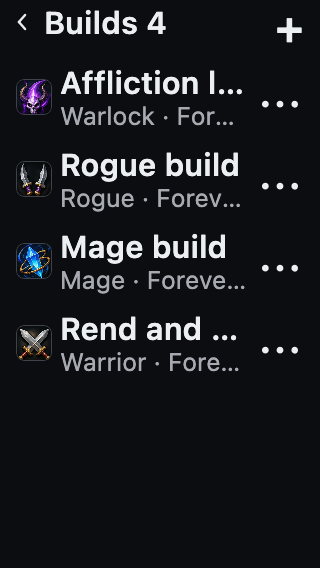
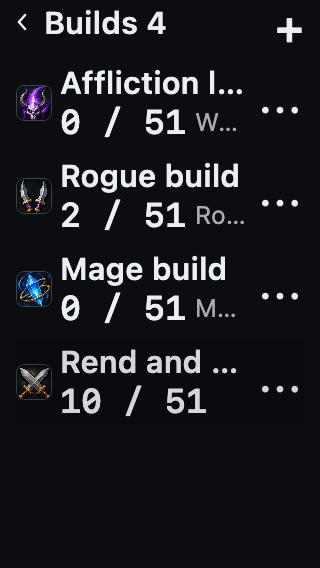
fix(mobile): compact All Builds rows keep the points as a visible element
PR #22 final accessibility fix. Folding the points into the metadata
string left them ellipsized away at 200% font scale - the full string
lived in Compose semantics while the number was visually truncated.
The compact arrangement now renders spent/total as its OWN single-line
element on the metadata row (natural width, never ellipsized or
wrapped) with the review's priority - build name, points, then
class/version/time taking the remainder. The layout test now asserts
VISIBILITY, not semantics: the points element's laid-out width must
cover the label's full intrinsic width measured with the production
style at the exact font scale, with nonzero bounds and no screen
overflow, at 320x568@200%, 360x800@200% and 360x800@100%; the 200%
screenshots are regenerated and inspected.

diff --git a/mobile/composeApp/src/desktopTest/kotlin/io/github/alexeykravtsov95/talentforge/ui/AllBuildsRowLayoutUiTest.kt b/mobile/composeApp/src/desktopTest/kotlin/io/github/alexeykravtsov95/talentforge/ui/AllBuildsRowLayoutUiTest.kt
@@ -3,6 +3,7 @@ package io.github.alexeykravtsov95.talentforge.ui
 import androidx.compose.foundation.layout.Box
 import androidx.compose.foundation.layout.size
 import androidx.compose.runtime.CompositionLocalProvider
+import androidx.compose.runtime.SideEffect
 import androidx.compose.ui.Modifier
 import androidx.compose.ui.platform.LocalDensity
 import androidx.compose.ui.test.assertWidthIsAtLeast
@@ -10,9 +11,8 @@ import androidx.compose.ui.test.junit4.createComposeRule
 import androidx.compose.ui.test.onAllNodesWithText
 import androidx.compose.ui.test.onNodeWithContentDescription
 import androidx.compose.ui.test.onNodeWithText
-import androidx.compose.ui.test.onRoot
 import androidx.compose.ui.test.performClick
-import androidx.compose.ui.test.printToString
+import androidx.compose.ui.text.rememberTextMeasurer
 import androidx.compose.ui.unit.Density
 import androidx.compose.ui.unit.dp
 import io.github.alexeykravtsov95.talentforge.allocation.TalentAllocationEngine
@@ -26,22 +26,27 @@ import io.github.alexeykravtsov95.talentforge.data.builds.BuildLibraryOutcome
 import io.github.alexeykravtsov95.talentforge.data.builds.LocalBuildRepository
 import io.github.alexeykravtsov95.talentforge.data.talentdata.TalentDataDocument
 import io.github.alexeykravtsov95.talentforge.ui.assets.ComposeResourceDatasetAssetSource
+import io.github.alexeykravtsov95.talentforge.ui.builds.BuildsPointsStyle
 import io.github.alexeykravtsov95.talentforge.ui.theme.TalentForgeTheme
 import kotlin.test.BeforeTest
 import kotlin.test.Test
 import kotlin.test.assertIs
+import kotlin.test.assertTrue
 import kotlinx.coroutines.runBlocking
 import org.junit.Rule
 
 /**
- * PR #22 review finding 1, as automated layout assertions: at 320 dp width
- * and 200 % font scale the All Builds row's FIXED elements (36 dp artwork,
- * the mono points column, the 48 dp `⋯` button) must never crowd the build
- * name into unreadability. The row answers with a responsive arrangement:
- * with room (360 dp at 100 %) the points stay a trailing column; without it
- * (200 % font scale, narrow screens) the points fold into the meta line and
- * the freed width goes to the title — while the artwork, the points FACT and
- * the 48 dp actions target are always preserved.
+ * PR #22 accessibility review, as automated LAYOUT assertions (a semantics
+ * lookup of an ellipsized string is NOT enough — the full text exists in the
+ * semantics tree while being visually truncated):
+ *
+ * the All Builds row must keep the spent/total points VISIBLY readable at
+ * 320 dp and 360 dp with 200 % font scale, with the priority build name →
+ * points → class/version/time. Each test proves the points are a SEPARATE
+ * element whose laid-out width covers the full intrinsic width of the label
+ * (measured with the production style at the exact font scale), has nonzero
+ * bounds and stays inside the screen — i.e. it is not clipped, wrapped or
+ * ellipsized. The full trailing-column arrangement at 100 % is pinned too.
  */
 class AllBuildsRowLayoutUiTest {
 
@@ -58,6 +63,9 @@ class AllBuildsRowLayoutUiTest {
     private val longName =
         "Rend and Deflection levelling route for solo battlegrounds"
 
+    /** The intrinsic (unconstrained) width of the points label at the composed font scale. */
+    private var pointsIntrinsicWidthPx: Int = 0
+
     @BeforeTest
     fun setUp() {
         storage = FakeBuildLibraryStorage()
@@ -70,6 +78,11 @@ class AllBuildsRowLayoutUiTest {
         composeRule.setContent {
             TalentForgeTheme {
                 CompositionLocalProvider(LocalDensity provides Density(1f, fontScale)) {
+                    val textMeasurer = rememberTextMeasurer()
+                    SideEffect {
+                        pointsIntrinsicWidthPx =
+                            textMeasurer.measure("13 / 51", BuildsPointsStyle).size.width
+                    }
                     Box(Modifier.size(widthDp.dp, heightDp.dp)) {
                         App(storage = storage, clock = clock, ids = ids)
                     }
@@ -83,6 +96,9 @@ class AllBuildsRowLayoutUiTest {
             composeRule.onAllNodesWithText(text).fetchSemanticsNodes().isNotEmpty()
         }
     }
+
+    private fun <T> loaded(outcome: BuildLibraryOutcome<T>): T =
+        assertIs<BuildLibraryOutcome.Loaded<T>>(outcome).value
 
     /**
      * Composes the app FIRST on the fresh empty library, seeds the scenario,
@@ -99,9 +115,6 @@ class AllBuildsRowLayoutUiTest {
         composeApp(widthDp, heightDp, fontScale)
         awaitText("CONTINUE")
     }
-
-    private fun <T> loaded(outcome: BuildLibraryOutcome<T>): T =
-        assertIs<BuildLibraryOutcome.Loaded<T>>(outcome).value
 
     /**
      * A real engine-spent Warrior build with a two-digit points label
@@ -151,16 +164,38 @@ class AllBuildsRowLayoutUiTest {
         awaitText("Builds 1")
     }
 
+    /**
+     * The accessibility core: the points are their own element, with nonzero
+     * bounds, laid out at (at least) the label's full intrinsic width — an
+     * ellipsized or clipped element would report a narrower box — and fully
+     * inside the screen.
+     */
+    private fun assertPointsElementFullyVisible(screenWidthPx: Int) {
+        val node = composeRule.onNodeWithText("13 / 51").fetchSemanticsNode()
+        val width = node.size.width.toFloat()
+        assertTrue(width > 0f && node.size.height > 0, "the points element must have nonzero bounds")
+        assertTrue(
+            width + 0.5f >= pointsIntrinsicWidthPx,
+            "the points label must be fully laid out, not clipped/ellipsized " +
+                "(laid out $width px of intrinsic $pointsIntrinsicWidthPx px)",
+        )
+        val rightEdge = node.positionInRoot.x + width
+        assertTrue(
+            rightEdge <= screenWidthPx.toFloat(),
+            "the points element must stay inside the screen (right edge $rightEdge of $screenWidthPx)",
+        )
+    }
+
     @Test
-    fun withRoomThePointsStayATrailingColumn() {
+    fun atFullFontSizeTheTrailingPointsColumnIsFullyVisible() {
         composeSeededApp(widthDp = 360, heightDp = 800, fontScale = 1f) {
             persistLongNamedSpentBuild()
         }
         openAllBuilds()
 
-        // the full arrangement: points are their own trailing mono column…
-        composeRule.onNodeWithText("13 / 51").assertExists()
-        // …and the meta line stays class · version · recency (points NOT folded)
+        // the full arrangement: separate trailing mono column, fully laid out
+        assertPointsElementFullyVisible(screenWidthPx = 360)
+        // the meta line keeps its own full form (class · version · recency)
         composeRule.onNodeWithText("Warrior · Forever · Just now").assertExists()
         // the ⋯ target keeps its 48 dp width
         composeRule.onNodeWithContentDescription("build actions for $longName")
@@ -168,32 +203,26 @@ class AllBuildsRowLayoutUiTest {
     }
 
     @Test
-    fun atDoubleFontScaleThePointsFoldIntoTheMetaLine() {
+    fun atDoubleFontScaleThePointsStayAVisibleSeparateElement() {
         composeSeededApp(widthDp = 360, heightDp = 800, fontScale = 2f) {
             persistLongNamedSpentBuild()
         }
         openAllBuilds()
 
-        // compact arrangement: no separate squeezed points column…
-        composeRule.onNodeWithText("13 / 51").assertDoesNotExist()
-        // …the points FACT survives inside the meta line…
-        composeRule.onNodeWithText("Warrior · Forever · 13 / 51 · Just now").assertExists()
-        // …the long title is present…
+        assertPointsElementFullyVisible(screenWidthPx = 360)
         composeRule.onNodeWithText(longName).assertExists()
-        // …and the ⋯ target still keeps its 48 dp width
         composeRule.onNodeWithContentDescription("build actions for $longName")
             .assertWidthIsAtLeast(48.dp)
     }
 
     @Test
-    fun atSmallestWidthAndDoubleFontScaleTheRowStaysReadable() {
+    fun atSmallestWidthAndDoubleFontScaleThePointsStayAVisibleSeparateElement() {
         composeSeededApp(widthDp = 320, heightDp = 568, fontScale = 2f) {
             persistLongNamedSpentBuild()
         }
         openAllBuilds()
 
-        composeRule.onNodeWithText("13 / 51").assertDoesNotExist()
-        composeRule.onNodeWithText("Warrior · Forever · 13 / 51 · Just now").assertExists()
+        assertPointsElementFullyVisible(screenWidthPx = 320)
         composeRule.onNodeWithText(longName).assertExists()
         composeRule.onNodeWithContentDescription("build actions for $longName")
             .assertWidthIsAtLeast(48.dp)

diff --git a/mobile/composeApp/src/commonMain/kotlin/io/github/alexeykravtsov95/talentforge/ui/builds/AllBuildsScreen.kt b/mobile/composeApp/src/commonMain/kotlin/io/github/alexeykravtsov95/talentforge/ui/builds/AllBuildsScreen.kt
@@ -378,9 +378,13 @@ fun AllBuildsScreen(
  * on narrow screens the full arrangement would crowd the build name into
  * unreadability. The row measures the WIDEST points label at the current
  * font scale and, when the title column would fall below
- * [MinBuildTitleWidth], folds the points into the meta line — the freed
- * width goes to the title while the artwork, the points FACT and the 48 dp
- * actions target are all preserved.
+ * [MinBuildTitleWidth], switches to the compact arrangement: the points
+ * become their OWN single-line element on the metadata row — measured at
+ * natural width, never ellipsized — and the class/version/time meta line
+ * takes what remains and ellipsizes where space does not permit. Layout
+ * priority is exactly the review's: build name, spent/total points, then
+ * class · version · recency. The artwork, the 48 dp actions target and the
+ * click-to-open row are identical in both arrangements.
  */
 @Composable
 private fun BuildRow(
@@ -394,7 +398,7 @@ private fun BuildRow(
         BuildRowContent(
             card = card,
             clockMillis = clockMillis,
-            foldPointsIntoMeta = compact,
+            compact = compact,
             onClick = onClick,
             onActions = onActions,
         )
@@ -420,7 +424,7 @@ private fun BoxWithConstraintsScope.isCompactRow(hasPoints: Boolean): Boolean {
 private fun BuildRowContent(
     card: BuildCardModel,
     clockMillis: () -> Long,
-    foldPointsIntoMeta: Boolean,
+    compact: Boolean,
     onClick: () -> Unit,
     onActions: () -> Unit,
 ) {
@@ -447,14 +451,38 @@ private fun BuildRowContent(
                 maxLines = 1,
                 overflow = androidx.compose.ui.text.style.TextOverflow.Ellipsis,
             )
-            BasicText(
-                text = rowMetaLine(card, clockMillis, includePoints = foldPointsIntoMeta),
-                style = TalentForgeTypography.meta.copy(color = colors.textSecondary),
-                maxLines = 1,
-                overflow = androidx.compose.ui.text.style.TextOverflow.Ellipsis,
-            )
+            if (compact) {
+                // the review's priority: the points are their OWN element,
+                // measured at natural width and never ellipsized; the meta
+                // line takes what remains and yields first
+                Row(
+                    verticalAlignment = Alignment.CenterVertically,
+                    horizontalArrangement = Arrangement.spacedBy(TalentForgeSpacing.inline),
+                ) {
+                    BasicText(
+                        text = "${card.spentPoints} / ${card.pointBudget}",
+                        style = BuildsPointsStyle.copy(color = colors.textPrimary),
+                        maxLines = 1,
+                        softWrap = false,
+                    )
+                    BasicText(
+                        text = rowMetaLine(card, clockMillis),
+                        style = TalentForgeTypography.meta.copy(color = colors.textSecondary),
+                        maxLines = 1,
+                        overflow = androidx.compose.ui.text.style.TextOverflow.Ellipsis,
+                        modifier = Modifier.weight(1f),
+                    )
+                }
+            } else {
+                BasicText(
+                    text = rowMetaLine(card, clockMillis),
+                    style = TalentForgeTypography.meta.copy(color = colors.textSecondary),
+                    maxLines = 1,
+                    overflow = androidx.compose.ui.text.style.TextOverflow.Ellipsis,
+                )
+            }
         }
-        if (!foldPointsIntoMeta && card.spentPoints != null && card.pointBudget != null) {
+        if (!compact && card.spentPoints != null && card.pointBudget != null) {
             BasicText(
                 text = "${card.spentPoints} / ${card.pointBudget}",
                 style = BuildsPointsStyle.copy(color = colors.textPrimary),
@@ -464,19 +492,13 @@ private fun BuildRowContent(
     }
 }
 
-/** `Warrior · Forever · [13 / 51 ·] Just now` — only resolved fields, in fixed order. */
+/** `Warrior · Forever · Just now` — only resolved fields, in fixed order. */
 private fun rowMetaLine(
     card: BuildCardModel,
     clockMillis: () -> Long,
-    includePoints: Boolean,
 ): String = listOfNotNull(
     card.classDisplayName ?: card.record.build.classToken.value,
     gameDisplayName(card.record.build.game),
-    if (includePoints && card.spentPoints != null && card.pointBudget != null) {
-        "${card.spentPoints} / ${card.pointBudget}"
-    } else {
-        null
-    },
     relativeBuildTime(clockMillis(), card.record.updatedAt),
 ).joinToString(" · ")
 
@@ -511,7 +533,8 @@ private val RowActionsButtonSize = 48.dp
  */
 private val MinBuildTitleWidth = 112.dp
 
-private val BuildsPointsStyle = androidx.compose.ui.text.TextStyle(
+/** UX spec G numeric mono 17 · 600 — `internal` so the layout test measures the same style. */
+internal val BuildsPointsStyle = androidx.compose.ui.text.TextStyle(
     fontFamily = androidx.compose.ui.text.font.FontFamily.Monospace,
     fontSize = 17.sp,
     lineHeight = 22.sp,

diff --git a/docs/mobile-architecture.md b/docs/mobile-architecture.md
@@ -819,9 +819,17 @@ Home's `New build`. The row is RESPONSIVE (PR #22 review): its fixed-width
 elements (artwork tile, mono points column, 48 dp `⋯` button) would crowd a
 long build name into unreadability at large font scales, so the row measures
 the widest points label at the current font scale and, when the title column
-would fall below ~112 dp, folds the points into the meta line — the artwork,
-the points FACT and the 48 dp actions target are always preserved
-(`AllBuildsRowLayoutUiTest` pins both arrangements and the button width).
+would fall below ~112 dp, switches to the compact arrangement with the
+review's exact priority — build name, then the points as their OWN
+single-line element on the metadata row (natural width, never ellipsized,
+never wrapped), then `class · version · recency` taking the remainder and
+ellipsizing where space does not permit. The artwork, the 48 dp actions
+target and the click-to-open row are identical in both arrangements.
+`AllBuildsRowLayoutUiTest` pins VISIBILITY, not just semantics: the points
+element's laid-out width must cover the label's full intrinsic width
+(measured with the production style at the exact font scale), it must have
+nonzero bounds and stay inside the screen — an ellipsized/truncated element
+would report a narrower box.
 
 **Tests added/updated:** `HomeRedesignUiTest`, `ClassArtworkTest`,
 `AllBuildsRowLayoutUiTest` (the responsive row of the PR #22 review)
@@ -835,8 +843,8 @@ fallback titles). Opt-in screenshot evidence:
 > skipped), `:composeApp:assembleDebug`, both iOS debug framework links and
 > the `iosApp` simulator `xcodebuild` — all green. Review evidence in
 > `docs/screenshots/m5ui1/`: the All Builds row at 200 % font scale on
-> 360×800 and 320×568 (long name, two-digit points, folded meta line), and
-> the realigned empty state at 320×568 / 130 % / 200 %.
+> 360×800 and 320×568 (long name, two-digit points as a separate, fully
+> visible element), and the realigned empty state at 320×568 / 130 % / 200 %.
 
 ## Version stack (all stable)
 
